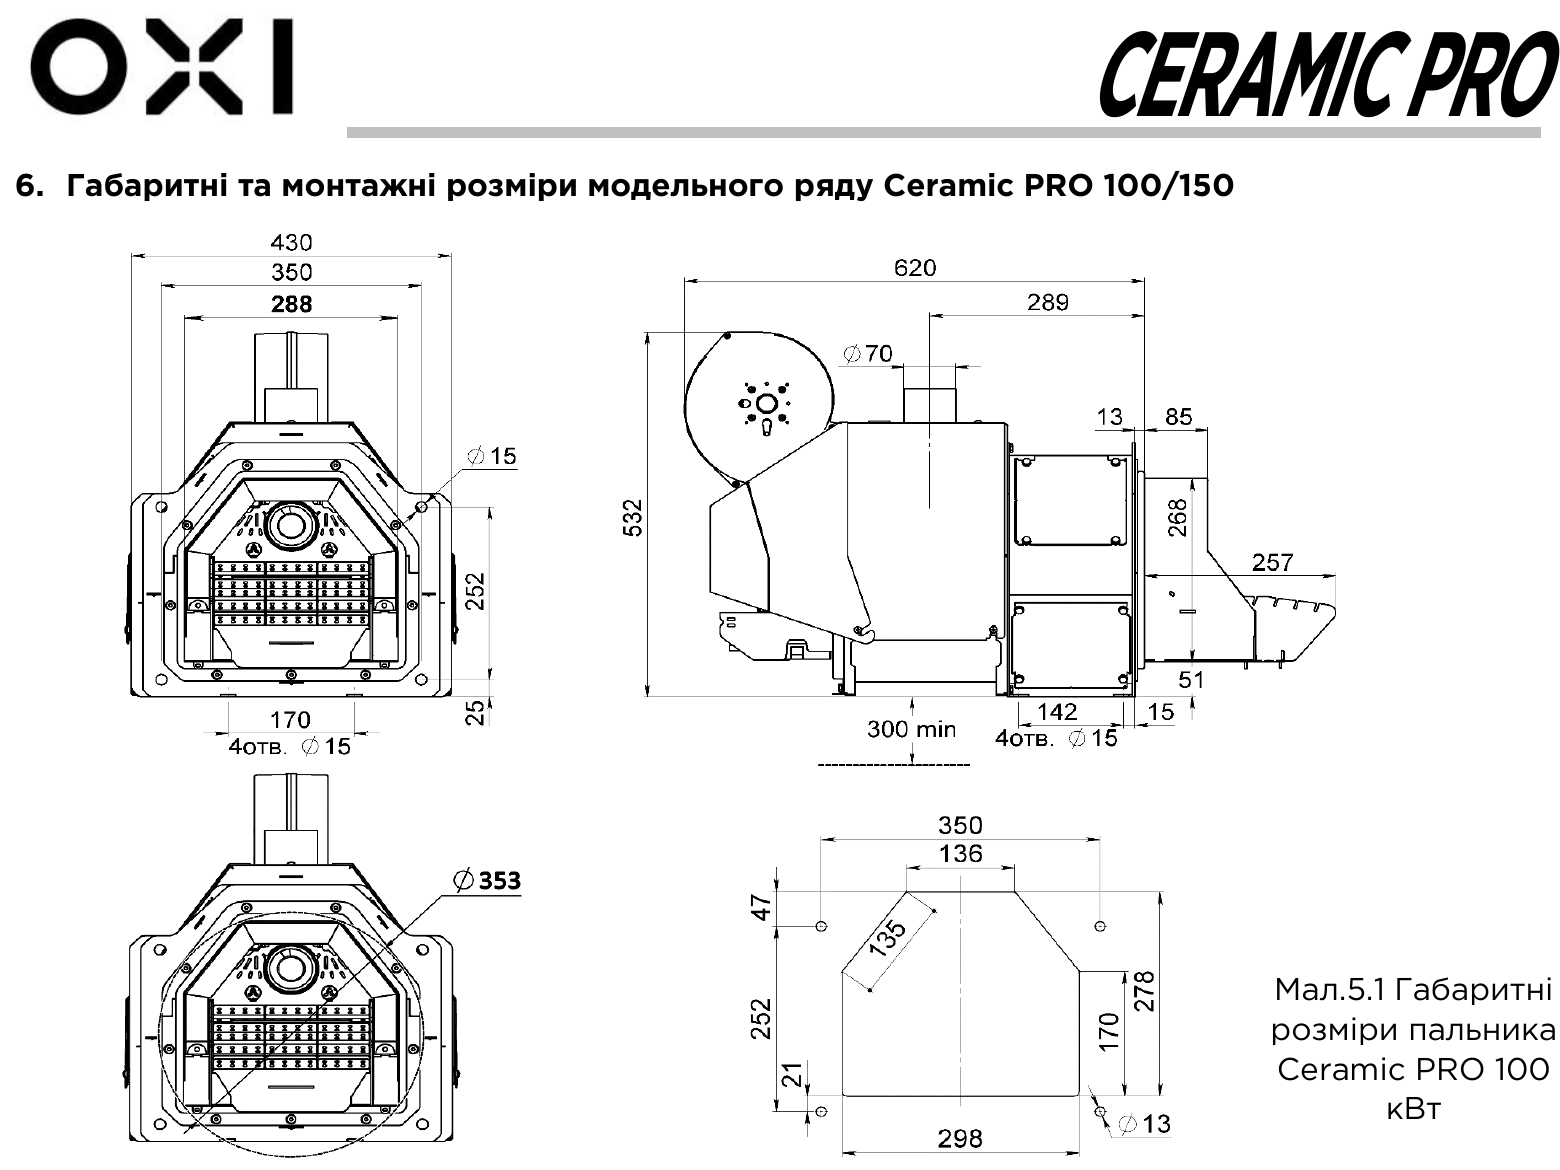
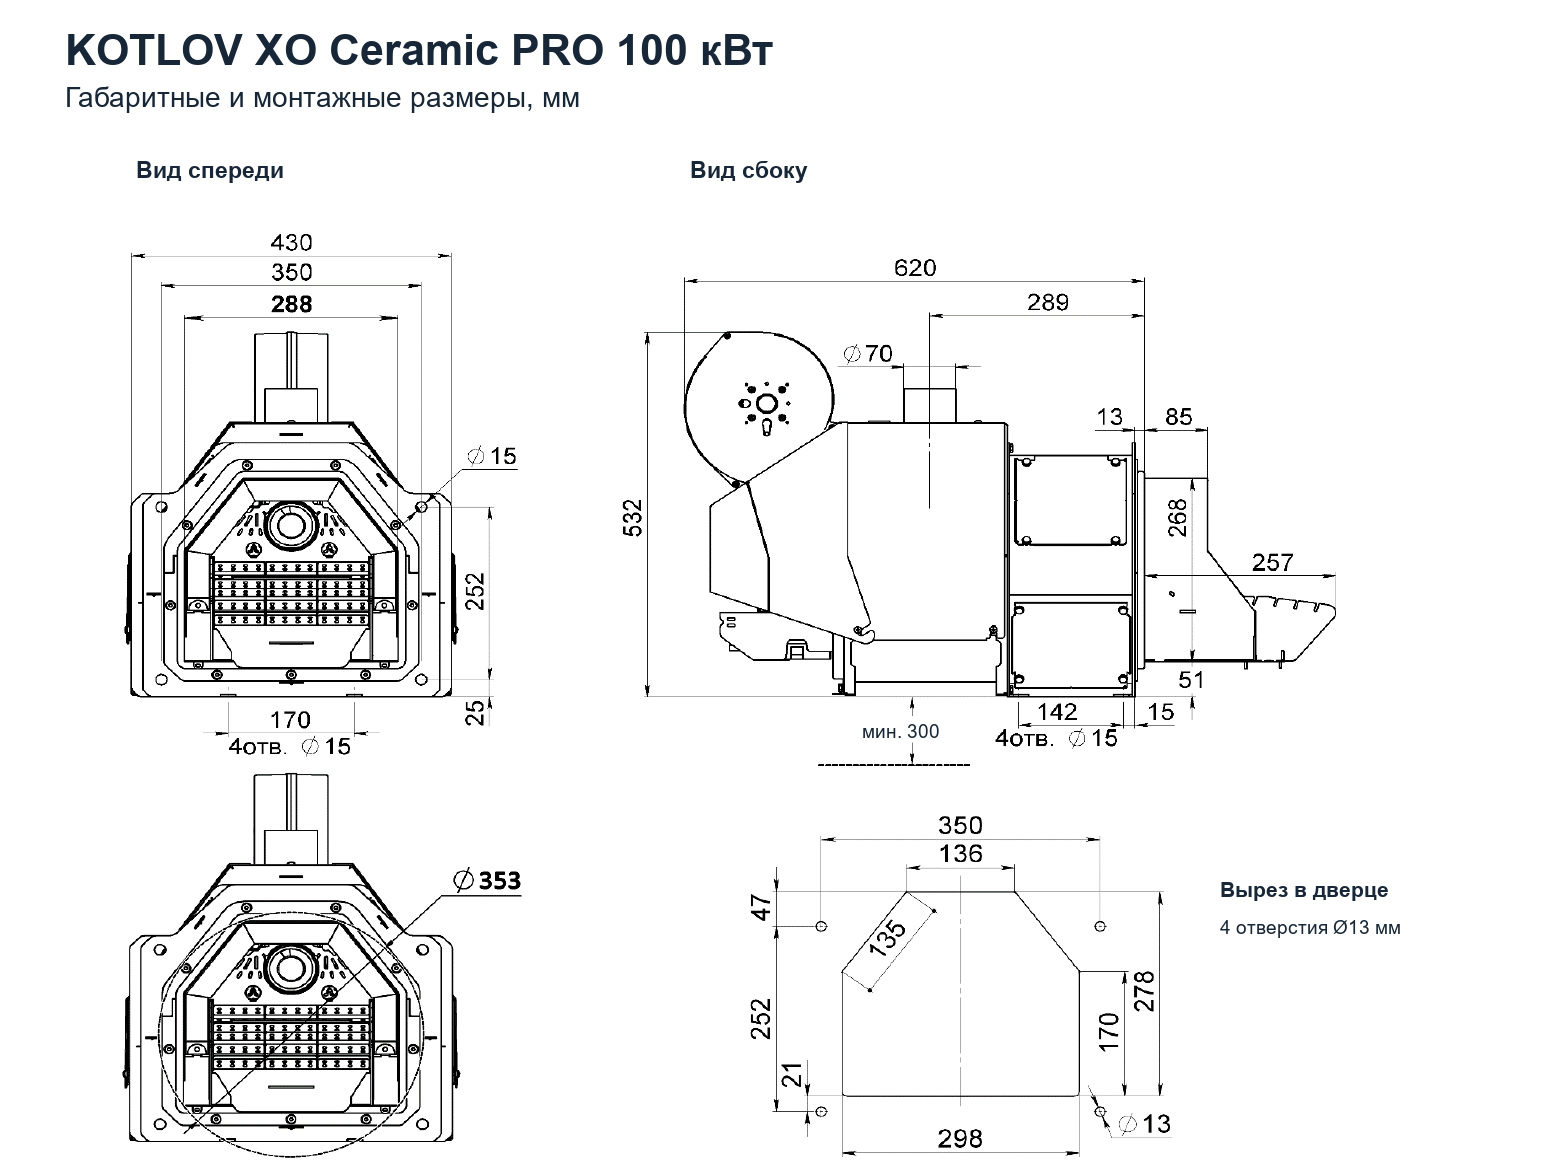
Localize Ceramic PRO 100 mounting diagrams for KOTLOV XO

diff --git a/resources/views/pages/product.blade.php b/resources/views/pages/product.blade.php
@@ -1045,17 +1045,17 @@
                         <div class="tab-content_desc site-prose">
                             @if ($product->slug === 'pelletnaya-gorelka-kotlov-xo-ceramic-pro-100-kvt')
                                 <section class="mb-4" aria-labelledby="xo-mount-heading">
-                                    <h3 id="xo-mount-heading">Монтажные размеры Ceramic PRO 100 кВт</h3>
+                                    <h3 id="xo-mount-heading">Монтажные размеры KOTLOV XO Ceramic PRO 100 кВт</h3>
                                     <p>Проём в дверце котла фигурный. Ширина внизу — 298 мм, полная высота — 278 мм, ширина верхней горизонтальной кромки — 136 мм. Высота прямых боковых участков — 170 мм.</p>
                                     <p>Четыре отверстия в дверце — Ø13 мм. Расстояние между центрами по горизонтали — 350 мм, по вертикали — 252 мм. Выступ горелки внутрь топки от привалочной плоскости — 257 мм.</p>
                                     <figure>
-                                        <a href="{{ asset('img/products/xo-ceramic-pro-100-mount.png') }}">
-                                            <img class="img-fluid" loading="lazy" width="1560" height="1170" src="{{ asset('img/products/xo-ceramic-pro-100-mount.png') }}" alt="Чертёж Ceramic PRO 100 кВт с боковым видом горелки, контуром выреза и центрами отверстий в дверце котла">
+                                        <a href="{{ asset('img/products/xo-ceramic-pro-100-mount-ru.svg') }}">
+                                            <img class="img-fluid" loading="lazy" width="1120" height="690" src="{{ asset('img/products/xo-ceramic-pro-100-mount-ru.svg') }}" alt="Монтажная схема KOTLOV XO Ceramic PRO 100 кВт — контур выреза и расположение четырёх отверстий в дверце котла">
                                         </a>
-                                        <figcaption>Паспорт OXI Ceramic PRO 100/150, редакция 01, стр. 9, рис. 5.1. Перед разметкой сверьте исполнение вашей горелки с чертежом. Все размеры в миллиметрах.</figcaption>
+                                        <figcaption>Перед разметкой сверьте исполнение вашей горелки с чертежом. Все размеры в миллиметрах.</figcaption>
                                     </figure>
-                                    <a href="{{ asset('img/products/xo-ceramic-pro-100-mount.png') }}">Открыть чертёж в полном размере</a>
-                                    · <a href="https://oxi.ua/en/tech">Документация производителя</a>
+                                    <a href="{{ asset('img/products/xo-ceramic-pro-100-mount-ru.svg') }}">Открыть чертёж в полном размере</a>
+                                    · <a href="{{ asset('img/products/xo-ceramic-pro-100-mount.png') }}?v=ru">Габаритный чертёж с видами спереди и сбоку</a>
                                 </section>
                             @endif
                             @if ($manufacturerPump && $pumpDetailDocument)
